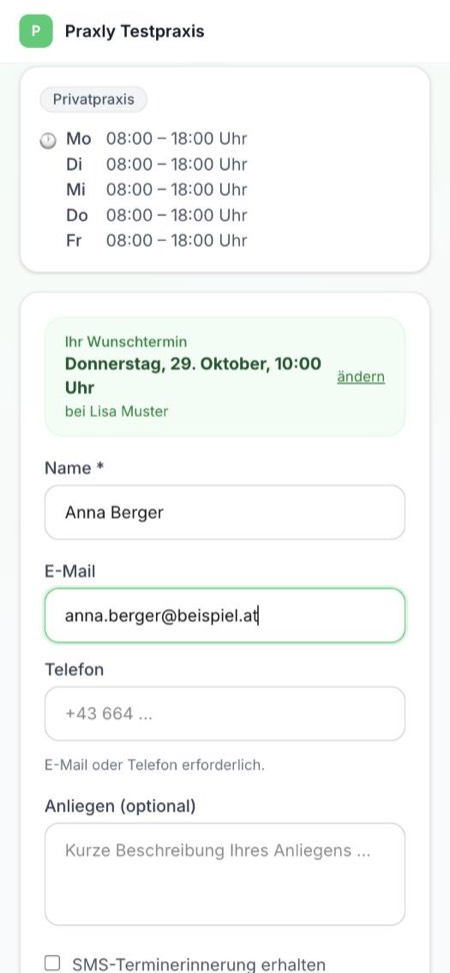
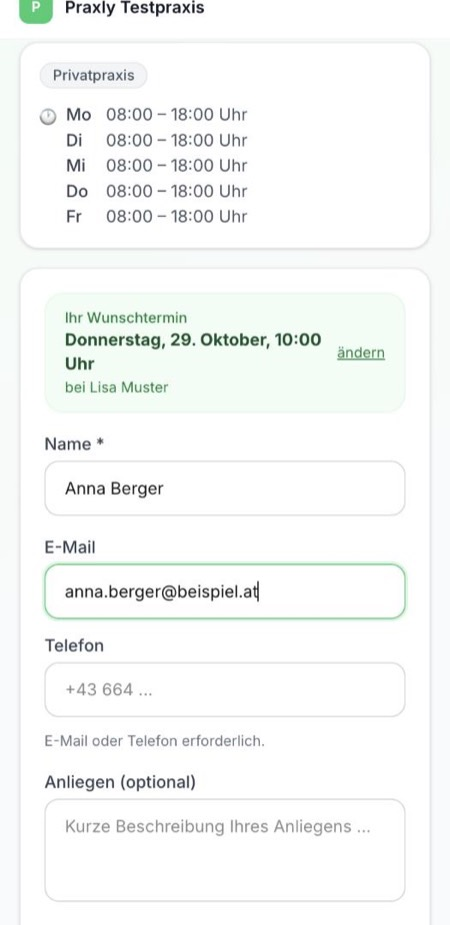
Belegbare Textkorrekturen: Löschsatz gestrichen, Mandantentrennung und EU-Aussagen präzisiert, SMS aus Patient:innen-Anleitung entfernt
Nur lokal, nicht gepusht.

diff --git a/so-laeuft-der-test/index.html b/so-laeuft-der-test/index.html
@@ -62,7 +62,7 @@
    "name": "Was passiert nach den 14 Tagen, wenn ich nicht weitermache?",
    "acceptedAnswer": {
     "@type": "Answer",
-    "text": "Du musst nichts tun. Ohne Abo wird dein Zugang gesperrt. Deine Daten bleiben laut AGB 30 Tage nach der Sperrung gespeichert und lassen sich in dieser Zeit unter Einstellungen → Datensicherung exportieren. Auf Wunsch der Praxis werden die Daten innerhalb von 30 Tagen nach Vertragsende gelöscht. Gesetzliche Aufbewahrungspflichten bleiben unberührt."
+    "text": "Du musst nichts tun. Ohne Abo wird dein Zugang gesperrt. Deine Daten bleiben laut AGB 30 Tage nach der Sperrung gespeichert und lassen sich in dieser Zeit unter Einstellungen → Datensicherung exportieren. Gesetzliche Aufbewahrungspflichten bleiben unberührt."
    }
   },
   {
@@ -241,7 +241,7 @@
   <ul>
     <li><strong>Du möchtest weitermachen:</strong> Du richtest dein Abo in der App ein. Praxly kostet 149 € pro Monat, monatlich kündbar, alles inklusive.</li>
     <li><strong>Du möchtest nicht weitermachen:</strong> Du musst nichts tun. Ohne Abo wird dein Zugang gesperrt.</li>
-    <li><strong>Deine Daten:</strong> Sie bleiben laut AGB (Punkt 3.3) 30 Tage nach der Sperrung gespeichert und lassen sich in dieser Zeit unter Einstellungen → Datensicherung exportieren. Auf Wunsch der Praxis werden die Daten innerhalb von 30 Tagen nach Vertragsende gelöscht. Gesetzliche Aufbewahrungspflichten bleiben unberührt.</li>
+    <li><strong>Deine Daten:</strong> Sie bleiben laut AGB (Punkt 3.3) 30 Tage nach der Sperrung gespeichert und lassen sich in dieser Zeit unter Einstellungen → Datensicherung exportieren. Gesetzliche Aufbewahrungspflichten bleiben unberührt.</li>
   </ul>
 
   <div class="hinweis">
@@ -262,7 +262,7 @@
   <h3>Kann ich meine Patientenliste in den Test übernehmen?</h3>
   <p>Ja, wenn du möchtest. In der App findest du den Import unter Mehr → Daten übernehmen → Tabelle hochladen. Das sieht nur die Inhaber:in der Praxis. Unterstützt werden die Formate csv, tsv, txt, xlsx und vcf (bis 5 MB). Du siehst vorab eine Vorschau und ordnest die Spalten zu. Behandlungsdokumentation, Honorarnoten und Verordnungen aus anderen Programmen lassen sich nicht übernehmen.</p>
   <h3>Was passiert nach den 14 Tagen, wenn ich nicht weitermache?</h3>
-  <p>Du musst nichts tun. Ohne Abo wird dein Zugang gesperrt. Deine Daten bleiben laut AGB 30 Tage nach der Sperrung gespeichert und lassen sich in dieser Zeit unter Einstellungen → Datensicherung exportieren. Auf Wunsch der Praxis werden die Daten innerhalb von 30 Tagen nach Vertragsende gelöscht. Gesetzliche Aufbewahrungspflichten bleiben unberührt.</p>
+  <p>Du musst nichts tun. Ohne Abo wird dein Zugang gesperrt. Deine Daten bleiben laut AGB 30 Tage nach der Sperrung gespeichert und lassen sich in dieser Zeit unter Einstellungen → Datensicherung exportieren. Gesetzliche Aufbewahrungspflichten bleiben unberührt.</p>
   <h3>Was kostet Praxly nach dem Test?</h3>
   <p>149 € pro Monat, monatlich kündbar, alles inklusive. Der Preis ist ein Endpreis ohne Ausweis der Umsatzsteuer (Kleinunternehmerregelung gem. § 6 Abs. 1 Z 27 UStG).</p>
 

diff --git a/index.html b/index.html
@@ -96,7 +96,7 @@
    "name": "Was passiert mit meinen Daten?",
    "acceptedAnswer": {
     "@type": "Answer",
-    "text": "Deine Daten gehören deiner Praxis. Den Auftragsverarbeitungsvertrag findest du in der App, und du kannst jederzeit alles exportieren. Jede Praxis sieht nur ihre eigenen Daten. Auf Wunsch der Praxis werden die Daten innerhalb von 30 Tagen nach Vertragsende gelöscht. Gesetzliche Aufbewahrungspflichten bleiben unberührt."
+    "text": "Deine Daten gehören deiner Praxis. Den Auftragsverarbeitungsvertrag findest du in der App, und du kannst jederzeit alles exportieren. Die Daten werden in einer Datenbank in der EU (Frankfurt) gespeichert und werden in Praxly über die Praxis-Zuordnung voneinander getrennt gehalten. Zugriff haben außerdem das Praxly-Team (zum Beispiel für den Support) und technische Dienstleister nach dem Auftragsverarbeitungsvertrag. Gesetzliche Aufbewahrungspflichten bleiben unberührt."
    }
   },
   {
@@ -411,7 +411,7 @@
     <div class="faq-list">
 <details class="faq-item"><summary>Brauche ich eine Karte für den Test?</summary><div class="faq-body">Nein. Du testest 14 Tage ohne Karte. Danach kostet Praxly 149 € im Monat, monatlich kündbar.</div></details>
 <details class="faq-item"><summary>Was ist im Preis enthalten?</summary><div class="faq-body">Alles. 149 € im Monat für 1 bis 5 Therapeut:innen, ohne Module, ohne Setup und ohne Mindestlaufzeit. Kein Ausweis der Umsatzsteuer (Kleinunternehmerregelung).</div></details>
-<details class="faq-item"><summary>Was passiert mit meinen Daten?</summary><div class="faq-body">Deine Daten gehören deiner Praxis. Den Auftragsverarbeitungsvertrag findest du in der App, und du kannst jederzeit alles exportieren. Jede Praxis sieht nur ihre eigenen Daten. Auf Wunsch der Praxis werden die Daten innerhalb von 30 Tagen nach Vertragsende gelöscht. Gesetzliche Aufbewahrungspflichten bleiben unberührt.</div></details>
+<details class="faq-item"><summary>Was passiert mit meinen Daten?</summary><div class="faq-body">Deine Daten gehören deiner Praxis. Den Auftragsverarbeitungsvertrag findest du in der App, und du kannst jederzeit alles exportieren. Die Daten werden in einer Datenbank in der EU (Frankfurt) gespeichert und werden in Praxly über die Praxis-Zuordnung voneinander getrennt gehalten. Zugriff haben außerdem das Praxly-Team (zum Beispiel für den Support) und technische Dienstleister nach dem Auftragsverarbeitungsvertrag. Gesetzliche Aufbewahrungspflichten bleiben unberührt.</div></details>
 <details class="faq-item"><summary>Wie komme ich mit meiner Patientenliste rein?</summary><div class="faq-body">Du lädst deine Liste als Excel oder CSV in der App hoch und siehst vorher eine Vorschau. Alte Behandlungsdokumentation und alte Rechnungen lassen sich nicht importieren.</div></details>
 <details class="faq-item"><summary>Läuft das am Handy?</summary><div class="faq-body">Ja, im Browser, ohne App zum Installieren.</div></details>
 <details class="faq-item"><summary>Wie erreiche ich das Praxly-Team?</summary><div class="faq-body">Schriftlich per E-Mail an kontakt@praxly.at.</div></details>

diff --git a/ueber-uns/index.html b/ueber-uns/index.html
@@ -4,11 +4,11 @@
 <meta charset="UTF-8">
 <meta name="viewport" content="width=device-width, initial-scale=1.0">
 <title>Wer steckt hinter Praxly? | Praxly</title>
-<meta name="description" content="Praxly ist eine Praxissoftware aus Vorarlberg: einfach, fairer Monatspreis, persönliche Betreuung. Daten in der EU (Frankfurt), AVV inklusive.">
+<meta name="description" content="Praxly ist eine Praxissoftware aus Vorarlberg: einfach, fairer Monatspreis, persönliche Betreuung. Datenbank in der EU (Frankfurt), AVV inklusive.">
 <link rel="icon" href="/logo.png">
 <link rel="canonical" href="https://praxly.at/ueber-uns/">
 <meta property="og:title" content="Wer steckt hinter Praxly?">
-<meta property="og:description" content="Praxly ist eine Praxissoftware aus Vorarlberg: einfach, fairer Monatspreis, persönliche Betreuung. Daten in der EU (Frankfurt), AVV inklusive.">
+<meta property="og:description" content="Praxly ist eine Praxissoftware aus Vorarlberg: einfach, fairer Monatspreis, persönliche Betreuung. Datenbank in der EU (Frankfurt), AVV inklusive.">
 <meta property="og:image" content="https://praxly.at/logo.png">
 <meta property="og:url" content="https://praxly.at/ueber-uns/">
 <meta property="og:type" content="website">
@@ -20,7 +20,7 @@
  "@type": "AboutPage",
  "headline": "Wer steckt hinter Praxly?",
  "name": "Wer steckt hinter Praxly?",
- "description": "Praxly ist eine Praxissoftware aus Vorarlberg: einfach, fairer Monatspreis, persönliche Betreuung. Daten in der EU (Frankfurt), AVV inklusive.",
+ "description": "Praxly ist eine Praxissoftware aus Vorarlberg: einfach, fairer Monatspreis, persönliche Betreuung. Datenbank in der EU (Frankfurt), AVV inklusive.",
  "url": "https://praxly.at/ueber-uns/",
  "datePublished": "2026-10-22",
  "dateModified": "2026-10-22",
@@ -55,7 +55,7 @@
    "name": "Wo liegen meine Daten?",
    "acceptedAnswer": {
     "@type": "Answer",
-    "text": "In einer Datenbank in der EU, im Rechenzentrum Frankfurt. Die Übertragung ist verschlüsselt (HTTPS)."
+    "text": "Die Datenbank steht im Rechenzentrum Frankfurt (EU). Die Übertragung ist per HTTPS verschlüsselt. Einzelne Dienstleister, z. B. für den E-Mail-Versand, sitzen in den USA."
    }
   },
   {
@@ -252,7 +252,7 @@
   <h3>Wer steckt hinter Praxly?</h3>
   <p>Gegründet von Sanna. Das Praxly-Team aus Vorarlberg. Praxly wird in Österreich entwickelt und laufend verbessert. Die gesetzlichen Angaben zum Unternehmen stehen im <a href="https://praxly.at/impressum.html">Impressum</a>.</p>
   <h3>Wo liegen meine Daten?</h3>
-  <p>In einer Datenbank in der EU, im Rechenzentrum Frankfurt. Die Übertragung ist verschlüsselt (HTTPS).</p>
+  <p>Die Datenbank steht im Rechenzentrum Frankfurt (EU). Die Übertragung ist per HTTPS verschlüsselt. Einzelne Dienstleister, z. B. für den E-Mail-Versand, sitzen in den USA.</p>
   <h3>Wie schnell bekomme ich Hilfe?</h3>
   <p>Schriftlich per E-Mail oder WhatsApp. Das Praxly-Team antwortet so schnell wie möglich.</p>
 

diff --git a/online-termin-buchen-anleitung/index.html b/online-termin-buchen-anleitung/index.html
@@ -243,11 +243,10 @@
     <li><strong>Name</strong> (Vor- und Nachname)</li>
     <li><strong>E-Mail-Adresse oder Telefonnummer</strong> – mindestens eines davon, damit die Praxis Sie erreichen kann</li>
     <li>Ihr Anliegen in ein paar Worten (freiwillig)</li>
-    <li>Ein Häkchen, wenn Sie eine <strong>Erinnerung per SMS</strong> möchten (freiwillig)</li>
     <li>Ein Häkchen bei der <strong>Datenschutzerklärung</strong></li>
   </ul>
   <p>Dann tippen Sie auf <strong>„Termin anfragen“</strong>.</p>
-  <figure class="schritt-bild"><img src="bilder/schritt-3.jpg" width="450" height="974" loading="lazy" alt="Bildschirm-Beispiel: Formular mit Name und Kontakt"><figcaption>Beispiel mit erfundenen Daten</figcaption></figure>
+  <figure class="schritt-bild"><img src="bilder/schritt-3.jpg" width="450" height="925" loading="lazy" alt="Bildschirm-Beispiel: Formular mit Name und Kontakt"><figcaption>Beispiel mit erfundenen Daten</figcaption></figure>
 
   <h2><span class="schritt-nr">4</span>Bestätigung erhalten</h2>
   <p>Je nach Praxis sehen Sie eine von zwei Meldungen:</p>
@@ -255,11 +254,11 @@
     <li><strong>„Termin bestätigt!“</strong> – Ihr Termin ist fix.</li>
     <li><strong>„Anfrage gesendet!“</strong> – die Praxis prüft den Termin und meldet sich zur Bestätigung.</li>
   </ul>
-  <p>Haben Sie eine E-Mail-Adresse angegeben, bekommen Sie zusätzlich eine E-Mail. Haben Sie die SMS-Erinnerung gewählt, kommt auch eine SMS. Mit <strong>„In Kalender speichern“</strong> können Sie den Termin in den Kalender Ihres Handys übernehmen.</p>
+  <p>Haben Sie eine E-Mail-Adresse angegeben, bekommen Sie zusätzlich eine E-Mail. Mit <strong>„In Kalender speichern“</strong> können Sie den Termin in den Kalender Ihres Handys übernehmen.</p>
   <figure class="schritt-bild"><img src="bilder/schritt-4.jpg" width="450" height="974" loading="lazy" alt="Bildschirm-Beispiel: Bestätigung nach der Buchung"><figcaption>Beispiel mit erfundenen Daten</figcaption></figure>
 
   <h2>Ihre Daten</h2>
-  <p>Ihre Angaben gehen nur an Ihre Praxis. Die Praxis ist für Ihre Daten verantwortlich; Praxly speichert sie im Auftrag der Praxis in einer Datenbank in der EU (Frankfurt). Alle Details stehen in der Datenschutzerklärung, die Sie direkt im Buchungsformular öffnen können.</p>
+  <p>Ihre Angaben gehen an Ihre Praxis. Die Praxis ist für Ihre Daten verantwortlich; das Praxly-Team speichert sie im Auftrag der Praxis in einer Datenbank in der EU (Frankfurt). Für den Versand von E-Mails werden weitere Dienstleister eingesetzt, einer davon in den USA. Alle Details stehen in der Datenschutzerklärung, die Sie direkt im Buchungsformular öffnen können.</p>
 
   <h2>Termin absagen oder ändern</h2>
   <p>Wenn Sie einen Termin nicht wahrnehmen können, sagen Sie bitte direkt bei Ihrer Praxis ab – so früh wie möglich, damit jemand anderer den Termin bekommen kann.</p>

diff --git a/fuer-heilmassage/index.html b/fuer-heilmassage/index.html
@@ -59,10 +59,10 @@
   },
   {
    "@type": "Question",
-   "name": "Sind die Daten sicher gespeichert?",
+   "name": "Wo liegen meine Daten?",
    "acceptedAnswer": {
     "@type": "Answer",
-    "text": "Die Datenbank steht in Frankfurt (EU). Einen Auftragsverarbeitungsvertrag (AVV) findest du in der App im Menü „DSGVO“. Die Daten gehören deiner Praxis und lassen sich jederzeit exportieren."
+    "text": "Die Datenbank steht in Frankfurt (EU), die Übertragung ist per HTTPS verschlüsselt. Einen Auftragsverarbeitungsvertrag (AVV) findest du in der App im Menü „DSGVO“. Die Daten gehören deiner Praxis und lassen sich jederzeit exportieren."
    }
   },
   {
@@ -258,8 +258,8 @@
   <p>Ja. Über deinen Buchungslink schicken Klient:innen eine Terminanfrage, du bestätigst sie. Den Link findest du in der App unter Einstellungen → Onlinebuchung.</p>
   <h3>Kann Praxly direkt mit der Krankenkasse abrechnen?</h3>
   <p>Nein. Praxly reicht nichts bei der Kasse ein. Du erstellst die Honorarnote als PDF; deine Klient:innen reichen sie selbst bei ihrem Krankenversicherungsträger ein.</p>
-  <h3>Sind die Daten sicher gespeichert?</h3>
-  <p>Die Datenbank steht in Frankfurt (EU). Einen Auftragsverarbeitungsvertrag (AVV) findest du in der App im Menü „DSGVO“. Die Daten gehören deiner Praxis und lassen sich jederzeit exportieren.</p>
+  <h3>Wo liegen meine Daten?</h3>
+  <p>Die Datenbank steht in Frankfurt (EU), die Übertragung ist per HTTPS verschlüsselt. Einen Auftragsverarbeitungsvertrag (AVV) findest du in der App im Menü „DSGVO“. Die Daten gehören deiner Praxis und lassen sich jederzeit exportieren.</p>
   <h3>Was kostet Praxly und wie läuft der Test?</h3>
   <p>14 Tage testen, danach 149 € pro Monat, monatlich kündbar. Alle Funktionen sind inklusive, für den Test brauchst du keine Kreditkarte.</p>
 

diff --git a/fuer-zentren/index.html b/fuer-zentren/index.html
@@ -68,10 +68,10 @@
   },
   {
    "@type": "Question",
-   "name": "Wo liegen meine Daten und was passiert bei Kündigung?",
+   "name": "Wo liegen meine Daten?",
    "acceptedAnswer": {
     "@type": "Answer",
-    "text": "Die Daten liegen in einer Datenbank in Frankfurt (EU). Den Auftragsverarbeitungsvertrag findest du in der App. Du kannst deine Daten jederzeit exportieren."
+    "text": "Die Datenbank liegt in Frankfurt (EU). Den Auftragsverarbeitungsvertrag findest du in der App. Du kannst deine Daten jederzeit exportieren."
    }
   }
  ]
@@ -274,8 +274,8 @@
   <p>Ja. Du kannst Praxly 14 Tage ohne Kreditkarte testen. Danach wird nur weitergerechnet, wenn du das Angebot annimmst.</p>
   <h3>Wie kommen meine Patient:innen in Praxly?</h3>
   <p>Deine Patientenliste als Excel- oder CSV-Datei lädst du selbst in der App hoch, vorab siehst du eine Vorschau. Das Praxly-Team begleitet schriftlich. Behandlungsdokumentation und alte Rechnungen lassen sich nicht importieren.</p>
-  <h3>Wo liegen meine Daten und was passiert bei Kündigung?</h3>
-  <p>Die Daten liegen in einer Datenbank in Frankfurt (EU). Den Auftragsverarbeitungsvertrag findest du in der App. Du kannst deine Daten jederzeit exportieren.</p>
+  <h3>Wo liegen meine Daten?</h3>
+  <p>Die Datenbank liegt in Frankfurt (EU). Den Auftragsverarbeitungsvertrag findest du in der App. Du kannst deine Daten jederzeit exportieren.</p>
 
   <p><a href="https://praxly.at/fuer-gemeinschaftspraxen/">Weniger als 6 Therapeut:innen? Zu den Gemeinschaftspraxen →</a></p>
 

diff --git a/ratgeber/datenschutz-physiopraxis/index.html b/ratgeber/datenschutz-physiopraxis/index.html
@@ -287,7 +287,7 @@
   <p>Zur Datenschutz-Folgenabschätzung: Sie ist insbesondere bei umfangreicher Verarbeitung von Gesundheitsdaten erforderlich (Art. 35 Abs. 3 lit. b DSGVO). Laut Erwägungsgrund 91 gilt die Verarbeitung durch einen einzelnen Angehörigen eines Gesundheitsberufs nicht als umfangreich. Die österreichische Datenschutzbehörde hat in der Verordnung über Ausnahmen von der Datenschutz-Folgenabschätzung (DSFA-AV, BGBl. II Nr. 108/2018) die Patienten- und Klientenverwaltung und Honorarabrechnung einzeln tätiger Gesundheitsdiensteanbieter ausgenommen. Ob das auch für Praxen mit mehreren Therapeut:innen gilt, kläre im Zweifel mit deiner Interessenvertretung. Prüfe deinen eigenen Fall.</p>
 
   <h2>Praxly</h2>
-  <p>Praxly stellt einen Auftragsverarbeitungsvertrag (AVV) bereit; die Datenbank liegt in der EU (Frankfurt). Der AVV ist ein Baustein. Die Praxis bleibt für den Datenschutz selbst verantwortlich.</p>
+  <p>Praxly stellt einen Auftragsverarbeitungsvertrag (AVV) bereit; die Datenbank liegt in der EU (Frankfurt). Einzelne Dienstleister, z. B. für den E-Mail-Versand, sitzen in den USA. Der AVV ist ein Baustein. Die Praxis bleibt für den Datenschutz selbst verantwortlich.</p>
 
 
   <h2>Häufige Fragen</h2>

diff --git a/ratgeber/praxissoftware-wechseln-ohne-datenverlust/index.html b/ratgeber/praxissoftware-wechseln-ohne-datenverlust/index.html
@@ -305,7 +305,7 @@
 
   <h2>Wechsel zu Praxly: kostenlose Umzugshilfe</h2>
 
-  <p>Wenn du zu <a href="https://praxly.at/">Praxly</a> wechseln möchten: Liegen deine Patientendaten in Excel oder als CSV-Datei vor, lädst du sie über den Import verschlüsselt direkt in Praxly hoch; das Praxly-Team hilft dir schriftlich und kostenlos beim Zuordnen. Patientendaten schickst du dabei nie per E-Mail. Schreibe an <a href="mailto:kontakt@praxly.at">kontakt@praxly.at</a>, welches Programm du bisher nutzt – bei anderen Formaten wird gemeinsam der einfachste Weg gesucht. Inhaber:innen können ihre Daten in Praxly jederzeit selbst exportieren.</p>
+  <p>Wenn du zu <a href="https://praxly.at/">Praxly</a> wechseln möchtest: Liegen deine Patientendaten in Excel oder als CSV-Datei vor, lädst du sie über den Import verschlüsselt direkt in Praxly hoch; das Praxly-Team hilft dir schriftlich und kostenlos beim Zuordnen. Patientendaten schickst du dabei nie per E-Mail. Schreibe an <a href="mailto:kontakt@praxly.at">kontakt@praxly.at</a>, welches Programm du bisher nutzt – bei anderen Formaten wird gemeinsam der einfachste Weg gesucht. Inhaber:innen können ihre Daten in Praxly jederzeit selbst exportieren.</p>
 
 
   <h2>Häufige Fragen</h2>

diff --git a/ratgeber/eigene-praxis-ergotherapie-logopaedie-heilmassage-oesterreich/index.html b/ratgeber/eigene-praxis-ergotherapie-logopaedie-heilmassage-oesterreich/index.html
@@ -218,7 +218,7 @@
 
   <h2>Datenschutz</h2>
   <p>Befunde und Verläufe sind Gesundheitsdaten. Nutzt du Dienstleister, die diese Daten verarbeiten, brauchst du dafür einen Auftragsverarbeitungsvertrag. Verschicke Befunde und Gesundheitsdaten besser nur verschlüsselt, nicht per gewöhnlicher E-Mail. Welche Datenschutzpflichten in deiner Praxis im Einzelnen gelten, klärst du mit der Datenschutzbehörde oder einer Beratung.</p>
-  <p>Praxly läuft im Browser, speichert Daten in Frankfurt (EU) und bietet einen Auftragsverarbeitungsvertrag.</p>
+  <p>Praxly läuft im Browser, die Datenbank liegt in Frankfurt (EU), und es gibt einen Auftragsverarbeitungsvertrag. Einzelne Dienstleister, z. B. für den E-Mail-Versand, sitzen in den USA.</p>
 
   <h2>Honorarnote und Kostenerstattung</h2>
   <p>Als Wahltherapeut:in rechnest du direkt mit deinen Patient:innen bzw. Klient:innen ab; sie reichen die Honorarnote selbst bei der Krankenkasse ein. Praxly reicht nichts bei der Kasse ein.</p>

diff --git a/ratgeber/aufbewahrung-dokumentation-honorarnoten-wahltherapeut/index.html b/ratgeber/aufbewahrung-dokumentation-honorarnoten-wahltherapeut/index.html
@@ -290,7 +290,7 @@
   </ol>
 
   <h2>Und Praxly?</h2>
-  <p>Praxly verwaltet Termine, Online-Buchung, E-Mail-Erinnerungen und die Dokumentation und erstellt Honorarnoten mit den Angaben für die Kostenerstattung. Bestehende Patientenlisten kannst du per Excel oder CSV importieren. Die Datenbank liegt in Frankfurt (EU), die Auftragsverarbeitung (AVV) ist in der App abrufbar. 14 Tage testen, danach 149 € pro Monat, monatlich kündbar.</p>
+  <p>Praxly verwaltet Termine, Online-Buchung, E-Mail-Erinnerungen und die Dokumentation und erstellt Honorarnoten mit den Angaben für die Kostenerstattung. Bestehende Patientenlisten kannst du per Excel oder CSV importieren. Die Datenbank liegt in Frankfurt (EU), die Auftragsverarbeitung (AVV) ist in der App abrufbar. Einzelne Dienstleister, z. B. für den E-Mail-Versand, sitzen in den USA. 14 Tage testen, danach 149 € pro Monat, monatlich kündbar.</p>
 
   <h2>Häufige Fragen</h2>
 

diff --git a/ratgeber/terminerinnerung-sms-email-datenschutz/index.html b/ratgeber/terminerinnerung-sms-email-datenschutz/index.html
@@ -297,7 +297,7 @@
   </ol>
 
   <h2>Wie Praxly dabei unterstützt</h2>
-  <p>Praxly verschickt Terminerinnerungen per E-Mail, verwaltet Termine und Dokumentation und stellt Honorarnoten mit den Angaben für die Kostenerstattung aus. Die Daten liegen in Frankfurt (EU), den Auftragsverarbeitungsvertrag (AVV) schließt du direkt in der App ab. 14 Tage testen, danach 149 € pro Monat, monatlich kündbar.</p>
+  <p>Praxly verschickt Terminerinnerungen per E-Mail, verwaltet Termine und Dokumentation und stellt Honorarnoten mit den Angaben für die Kostenerstattung aus. Die Datenbank liegt in Frankfurt (EU). Einzelne Dienstleister, z. B. für den E-Mail-Versand, sitzen in den USA. Den Auftragsverarbeitungsvertrag (AVV) schließt du direkt in der App ab. 14 Tage testen, danach 149 € pro Monat, monatlich kündbar.</p>
 
   <h2>Häufige Fragen</h2>
 

diff --git a/ratgeber/registrierkasse-beleg-wahltherapeut/index.html b/ratgeber/registrierkasse-beleg-wahltherapeut/index.html
@@ -294,7 +294,7 @@
   </ol>
 
   <h2>Und Praxly?</h2>
-  <p>Praxly ist keine Registrierkasse. Es erstellt Honorarnoten mit den Angaben für die Kostenerstattung und verwaltet Termine, Online-Buchung, E-Mail-Erinnerungen und Dokumentation. Die Daten liegen in Frankfurt (EU), die Auftragsverarbeitung (AVV) ist in der App abrufbar. 14 Tage testen, danach 149 € pro Monat, monatlich kündbar.</p>
+  <p>Praxly ist keine Registrierkasse. Es erstellt Honorarnoten mit den Angaben für die Kostenerstattung und verwaltet Termine, Online-Buchung, E-Mail-Erinnerungen und Dokumentation. Die Datenbank liegt in Frankfurt (EU), die Auftragsverarbeitung (AVV) ist in der App abrufbar. Einzelne Dienstleister, z. B. für den E-Mail-Versand, sitzen in den USA. 14 Tage testen, danach 149 € pro Monat, monatlich kündbar.</p>
 
   <h2>Häufige Fragen</h2>
 
